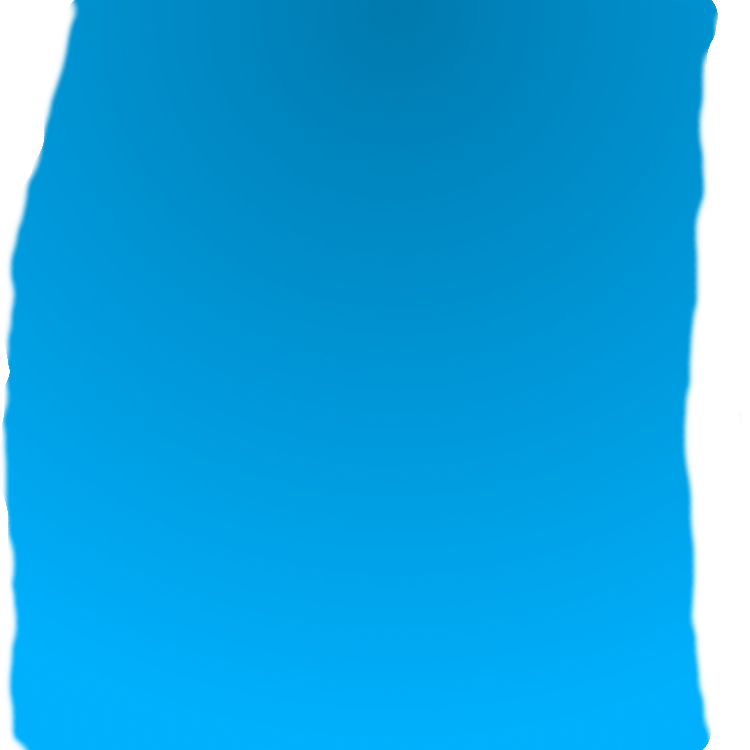
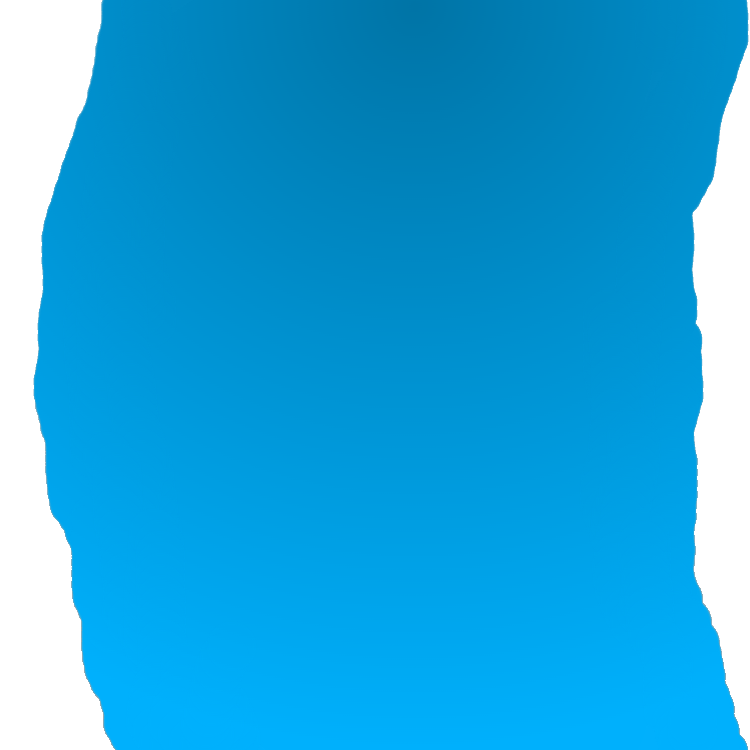
added animation for crossing river in both directions

Changed region(s): [[0.0, 0.0, 0.1533, 1.0], [0.8893, 0.0, 1.0, 1.0]]

diff --git a/app/src/main/java/farmer/view/River.java b/app/src/main/java/farmer/view/River.java
@@ -1,74 +1,78 @@
 package farmer.view;
 
-import java.io.IOException;
-import java.io.InputStream;
 import java.awt.image.BufferedImage;
 import java.awt.Graphics;
 import java.awt.Graphics2D;
 import java.awt.Dimension;
-import javax.imageio.ImageIO;
 import javax.swing.JPanel;
 import javax.swing.Timer;
 
 public class River extends JPanel {
     
-    public static final int BOAT_STEPS = 50;
+    public static final int BOAT_START = 0;
+    public static final int BOAT_END = 50;
     private static final int ANIMATION_DELAY = 50;
-    private static final String RIVER_IMAGE_FILE = "image/river.png";
-    private static final String BOAT_IMAGE_FILE = "image/boat.png";
     private BufferedImage riverImage;
     private BufferedImage boatImage;
     private int boatXOrigin;
     private int boatYOrigin;
     private int boatOffset;
+    private Timer moveBoatFoward;
+    private Timer moveBoatBackward;
 
-    public River(boolean animate) {
-        boatOffset = 0;
-        InputStream boatImageStream = 
-            getClass().getClassLoader().getResourceAsStream(BOAT_IMAGE_FILE);
-        InputStream riverImageStream = 
-            getClass().getClassLoader().getResourceAsStream(RIVER_IMAGE_FILE);
-        try {
-            boatImage = ImageIO.read(boatImageStream);
-            riverImage = ImageIO.read(riverImageStream);
-            setBoatOrigin(boatOffset);
-        } catch (IOException e) {
-            e.printStackTrace();
-        }
-        Timer timer = new Timer(ANIMATION_DELAY, e -> {
-            setBoatOrigin(boatOffset++);
+    public River(BufferedImage riverImage, BufferedImage boatImage) {
+        this.riverImage = riverImage;
+        this.boatImage = boatImage;
+        boatOffset = BOAT_START;
+        setBoatOrigin(boatOffset);
+        moveBoatFoward = new Timer(ANIMATION_DELAY, e -> {
+            setBoatOrigin(++boatOffset);
             repaint();
-            if (boatOffset > BOAT_STEPS) {
+            if (boatOffset == BOAT_END) {
                 Timer t = (Timer) e.getSource();
                 t.stop();
             }
         });
-        if (animate) {
-            timer.start();
+        moveBoatBackward = new Timer(ANIMATION_DELAY, e -> {
+            setBoatOrigin(--boatOffset);
+            repaint();
+            if (boatOffset == BOAT_START) {
+                Timer t = (Timer) e.getSource();
+                t.stop();
+            }
+        });
+    }
+
+    public int getBoatOffset() {
+        return boatOffset;
+    }
+
+    public void setBoatImage(BufferedImage boatImage) {
+        this.boatImage = boatImage;
+    }
+
+    
+
+    public void startAnimation() {
+        if (boatOffset == BOAT_START) {
+            moveBoatFoward.start();
+        } else {
+            moveBoatBackward.start();
         }
         
     }
 
-    private void setBoatOrigin(int offset) {
-        if (offset < 0 || offset > BOAT_STEPS) {
+    private void setBoatOrigin(int offset) throws IllegalArgumentException {
+        if (offset < 0 || offset > BOAT_END) {
             throw new IllegalArgumentException("offset out of range");
         }
         int riverHeight = riverImage.getHeight();
         int riverWidth = riverImage.getWidth();
         int boatHeight = boatImage.getHeight();
         int boatWidth = boatImage.getWidth();
-        int stepDistance = (riverWidth - boatWidth) / BOAT_STEPS;
+        int stepDistance = (riverWidth - boatWidth) / BOAT_END;
         boatXOrigin = stepDistance * offset;
         boatYOrigin = (riverHeight / 2) - (boatHeight / 2);
-    }
-
-    public void moveBoat(int offset, int delay) {
-        Timer timer = new Timer(delay, e -> {
-            setBoatOrigin(offset);
-            repaint();
-        });
-        timer.setRepeats(false);
-        timer.start();
     }
         
     @Override

diff --git a/app/src/main/java/farmer/view/View.java b/app/src/main/java/farmer/view/View.java
@@ -1,9 +1,9 @@
 package farmer.view;
 
+import java.awt.BorderLayout;
 import javax.swing.JFrame;
 import javax.swing.JPanel;
-
-import java.awt.BorderLayout;
+import javax.swing.JButton;
 
 public class View extends JFrame {
 
@@ -11,25 +11,38 @@ public class View extends JFrame {
     private static final int HEIGHT = 750;
     private static final int PADDING = 20;
 
+    private ImageLib images;
     private River river;
+    JButton crossRiverButton;
 
     public View() {
         super("Farmer Riddle Game");
         setDefaultCloseOperation(JFrame.EXIT_ON_CLOSE);
         setSize(WIDTH, HEIGHT);
         setLocation(PADDING, PADDING);
-        river = new River(false);
+        images = ImageLib.getInstance();
+
+        river = new River(images.river, images.boatEmpty);
         JPanel riverPanel = new JPanel();
         riverPanel.add(river);
+
+        crossRiverButton = new JButton("Cross River");
+        crossRiverButton.addActionListener(e -> {
+            river.startAnimation();
+        });
+        JPanel buttonPanel = new JPanel();
+        buttonPanel.add(crossRiverButton);
+
         add(riverPanel, BorderLayout.CENTER);
+        add(buttonPanel, BorderLayout.SOUTH);
+
         setVisible(true);
     }
 
     public void moveBoat() {
-        river = new River(true);
-        JPanel riverPanel = new JPanel();
-        riverPanel.add(river);
-        add(riverPanel, BorderLayout.CENTER);
+        river.startAnimation();
     }
+
+    public void foo() {}
     
 }

diff --git a/app/src/main/java/farmer/view/ImageLib.java b/app/src/main/java/farmer/view/ImageLib.java
@@ -1,0 +1,37 @@
+package farmer.view;
+
+import java.io.IOException;
+import java.io.InputStream;
+import javax.imageio.ImageIO;
+import java.awt.image.BufferedImage;
+
+public class ImageLib {
+
+    private static final String RIVER_IMAGE_FILE = "image/river.png";
+    private static final String BOAT_IMAGE_FILE = "image/boat.png";
+
+    BufferedImage river;
+    BufferedImage boatEmpty;
+
+    private static ImageLib INSTANCE;
+
+    public static ImageLib getInstance() {
+        if (INSTANCE == null) {
+            INSTANCE = new ImageLib();
+        }
+        return INSTANCE;
+    }
+
+    private ImageLib() {
+        InputStream boatImageStream = 
+            getClass().getClassLoader().getResourceAsStream(BOAT_IMAGE_FILE);
+        InputStream riverImageStream = 
+            getClass().getClassLoader().getResourceAsStream(RIVER_IMAGE_FILE);
+        try {
+            river = ImageIO.read(riverImageStream);
+            boatEmpty = ImageIO.read(boatImageStream);
+        } catch (IOException e) {
+            e.printStackTrace();
+        }
+    }
+}

diff --git a/app/src/test/java/farmer/ViewTest.java b/app/src/test/java/farmer/ViewTest.java
@@ -1,8 +1,21 @@
 package farmer;
 
+import org.junit.jupiter.api.Test;
+import org.junit.jupiter.api.BeforeEach;
+import static org.junit.jupiter.api.Assertions.assertEquals;
+import farmer.view.View;
 
 public class ViewTest {
 
+    View view;
 
+    @BeforeEach
+    void init() {
+        view = new View();
+    }
     
+    @Test
+    void setBoatImage() {
+        
+    }
 }

diff --git a/app/src/main/java/farmer/App.java b/app/src/main/java/farmer/App.java
@@ -12,7 +12,7 @@ public class App {
             @Override
             public void run() {
                 View view = new View();
-                view.moveBoat();
+                view.foo();
             }
         });
     }
